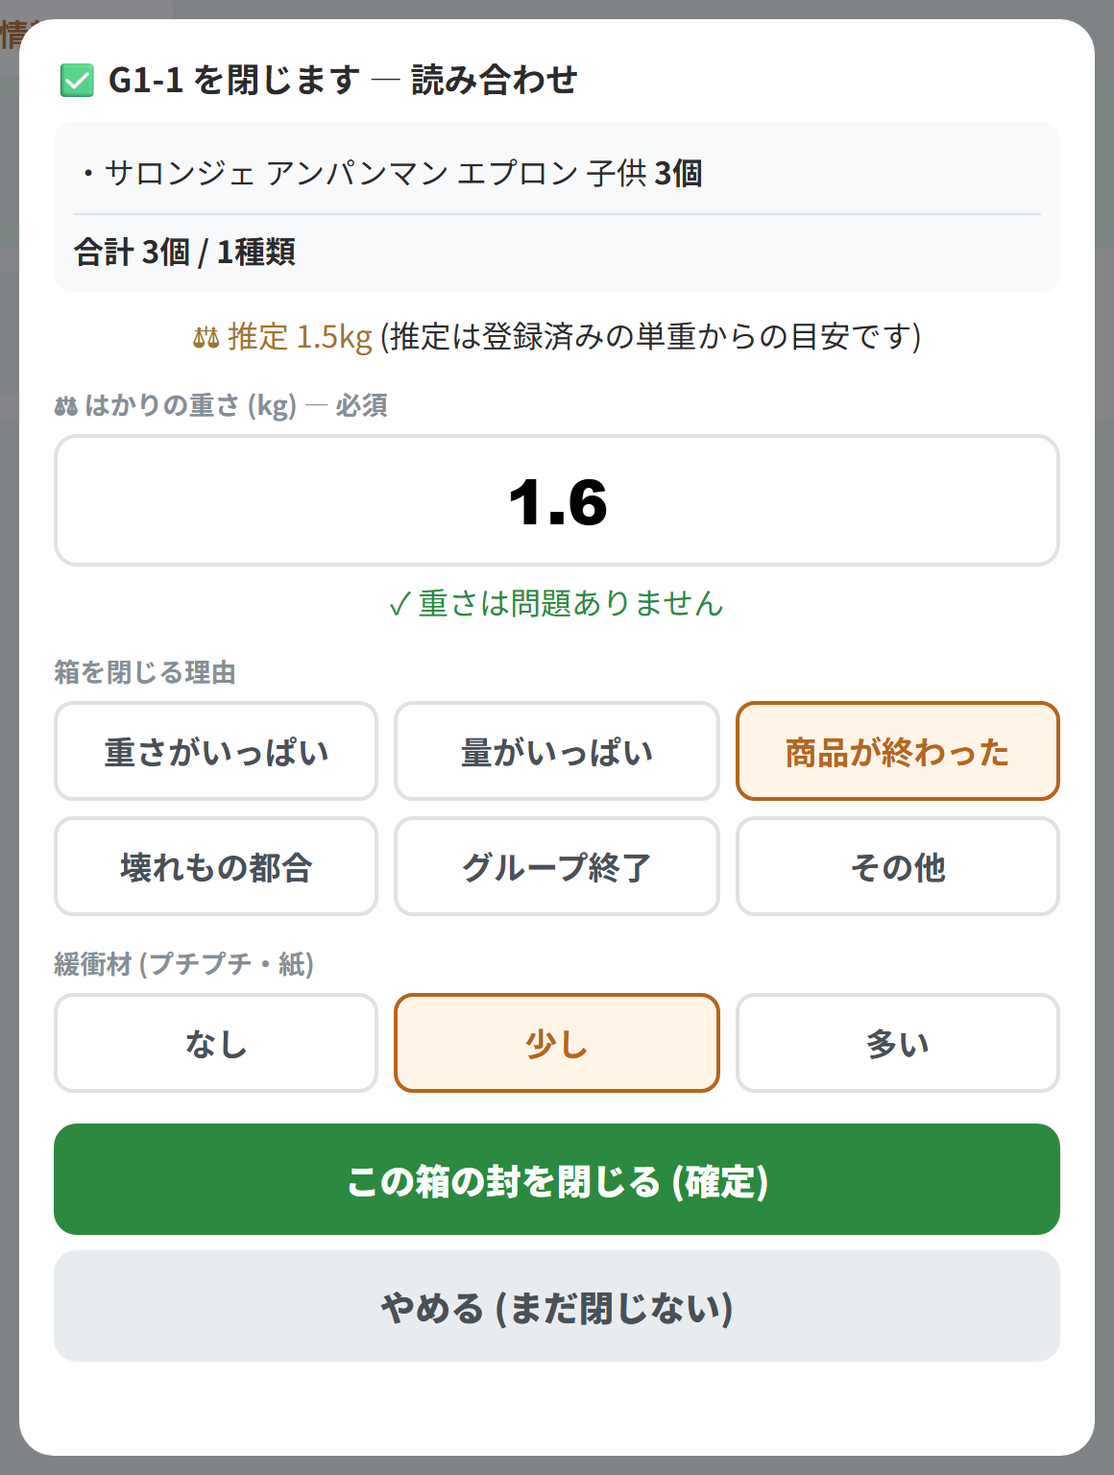
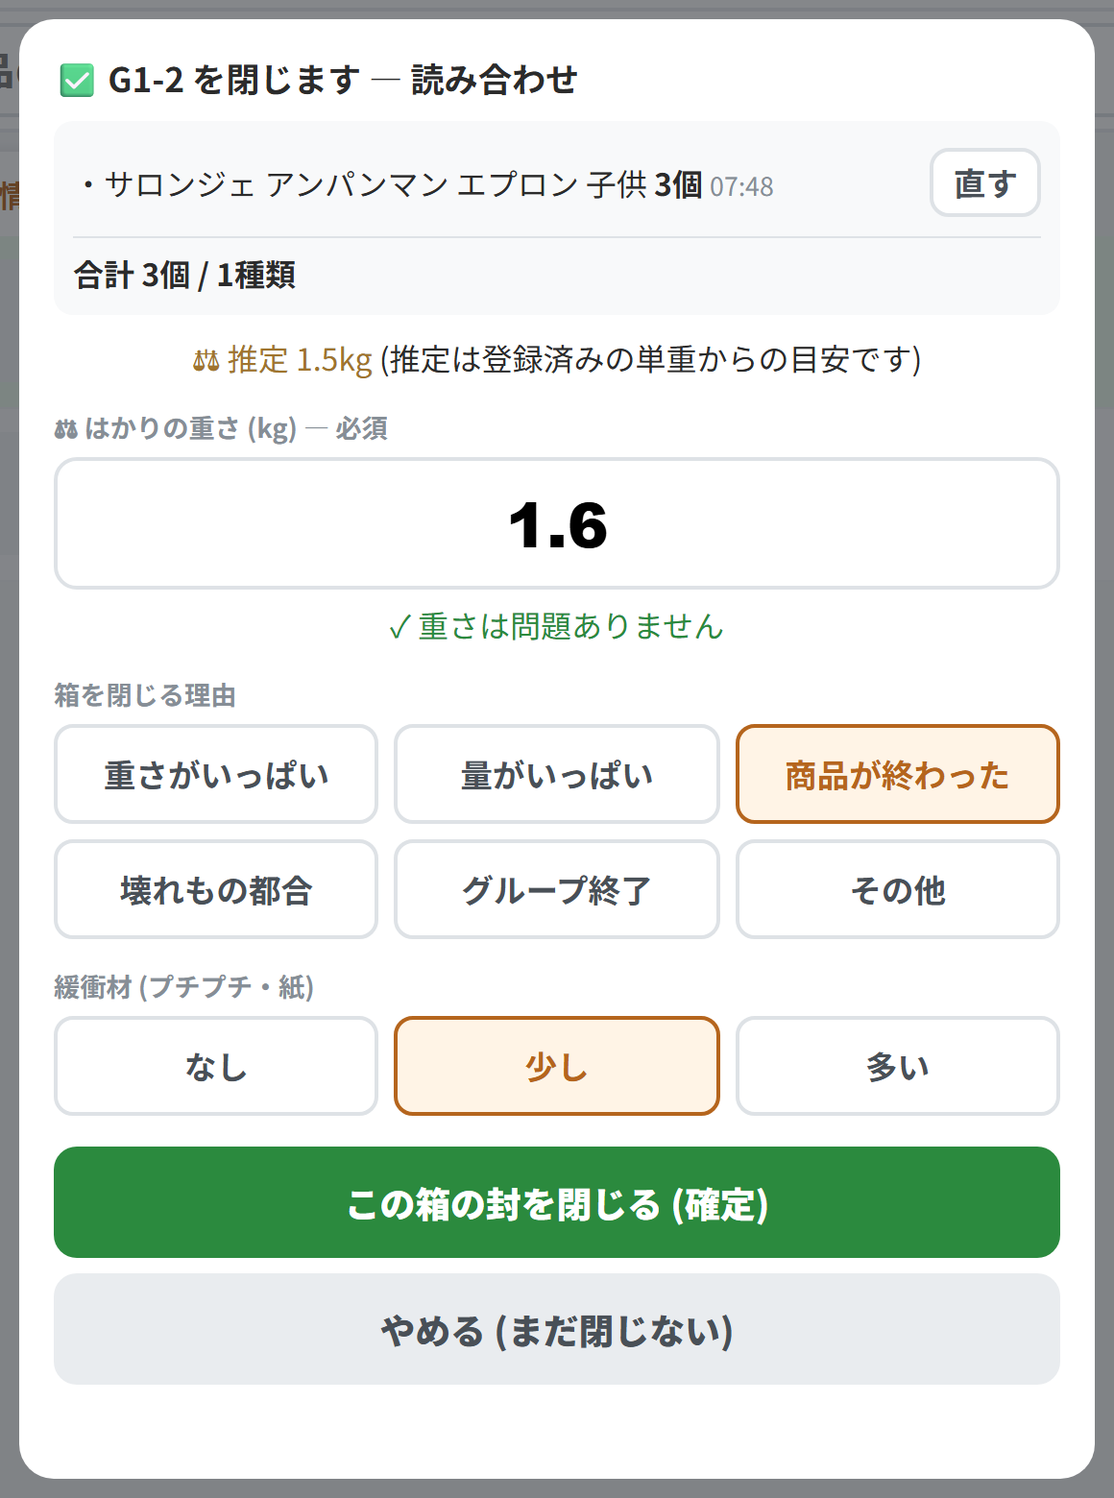
FBA箱詰め: つかいかたを 9/24 のアップデートに合わせる + 「アップデート内容」と回の一覧のお知らせ
中原さん 2026-09-24「マニュアルも更新して。更新したところだけ分かるように、アップデート内容みたいな感じで」
- つかいかたの冒頭に「🆕 9/24 のアップデート」(8 項目・各項目から本文へ飛べる)。本文の変わったところに 🆕 9/24 の印
- 本文を今の画面に: 番号で探す・商品→箱・別の箱にも入れる・下に固定の「入れた」・箱の中身/読み合わせから数を直す・
  通信が切れたときの新しい知らせ 3 つ・送る数を直しても入れかけの数が残る
- 画像を撮り直し (m01〜m10) + 追加 (m11 番号で探す / m12 別の箱にも入れる / m13 数を直す)
- 回の一覧に「🆕 9/24 アップデート … → 何が変わったか見る」。✕ で端末ごとに消せる (版を変えればまた出る)
- 数を直す画面に「やめる (直さない)」(背景タップしか出口が無かった)

diff --git a/apps/fba-box/views/manual.html b/apps/fba-box/views/manual.html
@@ -56,6 +56,15 @@
   th,td{border:1px solid var(--line);padding:8px 10px;text-align:left;vertical-align:top}
   th{background:var(--well);width:34%}
   footer{color:var(--faint);font-size:.85rem;text-align:center;margin-top:20px}
+  /* 🆕 アップデート内容 (変わったところだけ先に読めるように。本文の変わった所にも同じ印) */
+  .tag.new{background:#E8890C;color:#fff;margin-right:4px}
+  section.updates{border:2px solid #E8890C;background:#FFFBF5}
+  section.updates h2 .no{background:#E8890C}
+  .upd{display:grid;grid-template-columns:1fr;gap:10px;margin:10px 0 0;padding:0;list-style:none}
+  .upd li{background:var(--surface);border:1px solid var(--line);border-radius:12px;padding:10px 14px}
+  .upd li b.t{display:block;font-size:1.05rem;margin-bottom:2px}
+  .upd li a{color:var(--accent);font-weight:700;text-decoration:none;white-space:nowrap}
+  .upd .who{display:inline-block;font-size:.8rem;font-weight:700;border-radius:6px;padding:0 6px;margin-left:6px;background:var(--well);color:var(--sub)}
 </style>
 </head>
 <body>
@@ -67,6 +76,7 @@
 <main>
   <nav class="toc">
     <h2>もくじ</h2>
+    <p style="margin:0 0 6px"><a href="#updates">🆕 9/24 のアップデート (変わったところだけ見る)</a></p>
     <ol>
       <li><a href="#s1">回と名前をえらぶ</a></li>
       <li><a href="#s2">箱をつくる</a></li>
@@ -80,6 +90,31 @@
       <li><a href="#s10">職員: まとめ・箱札・作業を終える</a></li>
     </ol>
   </nav>
+
+  <section class="updates" id="updates">
+    <h2><span class="no">🆕</span>9/24 のアップデート</h2>
+    <p class="why">いろはのみなさんの声から直しました。変わったところだけ、ここにまとめています (本文の <span class="tag new">🆕 9/24</span> の印も同じところです)。</p>
+    <ul class="upd">
+      <li><b class="t">🔍 商品の番号で探せます</b>
+        作業画面の上の <b>🔍 番号</b> に、利用者さんが言った番号 (例: 通常_22 なら <b>22</b>) を入れると、その商品だけが出ます。
+        キーボードの <kbd>開く</kbd> で、そのまま商品の画面が開きます。もうスクロールして探さなくて大丈夫です。 <a href="#s3">→ 3 を見る</a></li>
+      <li><b class="t">📦 商品 → 箱 の順で入れられます</b>
+        先に箱を選ばなくても、<b>商品の画面で入れる箱を選べます</b>。「いまの箱」があれば、その箱に残り全部が入った状態で開きます。 <a href="#s3">→ 3 を見る</a></li>
+      <li><b class="t">✂ 1 つの商品を何箱にも分けて入れられます</b>
+        「1 箱目に 6 個・2 箱目に 4 個」のときは、<kbd>＋ 別の箱にも入れる</kbd> で箱を足して、<b>1 回で記録</b>できます。 <a href="#s3">→ 3 を見る</a></li>
+      <li><b class="t">⬇ 「入れた」ボタンは画面のいちばん下にいつも出ています</b>
+        商品の画面をスクロールしなくても押せます。 <a href="#s3">→ 3 を見る</a></li>
+      <li><b class="t">✏ 箱の中身から数を直せます</b>
+        箱のボタン (例: G1-1) → 中身の行の <kbd>数を直す</kbd>。箱を閉じる前の<b>読み合わせ</b>の画面からも <kbd>直す</kbd> で直せます。
+        数を直す画面には、<b>どの箱の記録か・記録した時刻・入れた人</b> が出ます。 <a href="#s4">→ 4 を見る</a></li>
+      <li><b class="t">📶 通信が切れたときの知らせを増やしました</b>
+        前の記録が入らなかったときは「<b>いま押した分は、まだ記録していません</b>」と出ます。入力はそのまま残るので、箱を確かめてから押し直してください。 <a href="#s8">→ 8 を見る</a></li>
+      <li><b class="t">🕘 記録の時刻が正しく出るようになりました</b>
+        これまで 9 時間ずれて出ていました (10:15 に入れたのに 01:15 など)。</li>
+      <li><b class="t">🔑 送る数を直しても、入れかけの数が消えません</b><span class="who">職員</span>
+        <kbd>送る数を直す</kbd> から商品の画面に戻っても、箱ごとに入れかけていた数はそのままです。 <a href="#s10">→ 10 を見る</a></li>
+    </ul>
+  </section>
 
   <div class="callout">
     この画面は <b>「どの商品を、どの箱に、何個入れたか」を記録する</b> ためのものです。<br>
@@ -132,22 +167,26 @@
     <h2><span class="no">3</span>商品を箱に入れる</h2>
     <p class="why">なぜ: 実際に入れた数と記録がずれると、Amazon で数が合わずに調査になります。</p>
     <ol class="steps">
-      <li>上の <b>🔍 番号</b> に <b>商品の番号</b> (例: 通常_22 なら <b>22</b>) を入れると、その商品だけが出ます。
+      <li><span class="tag new">🆕 9/24</span>上の <b>🔍 番号</b> に <b>商品の番号</b> (例: 通常_22 なら <b>22</b>) を入れると、その商品だけが出ます。
         キーボードの <kbd>開く</kbd> (Enter) で、そのまま商品の画面が開きます。一覧から <b>商品の行</b> をタップしても開けます。</li>
       <li>商品名と <b>FNSKU の下4桁</b> を見て、手に持っているものと同じか確かめます (🔊 で読み上げできます)。</li>
-      <li><b>📦 どの箱に何個</b>: 「いまの箱」があるときは、<b>その箱に残り全部が入った 1 行だけ</b> が出ます。そのままで良ければ次へ。
+      <li><span class="tag new">🆕 9/24</span><b>📦 どの箱に何個</b>: 「いまの箱」があるときは、<b>その箱に残り全部が入った 1 行だけ</b> が出ます。そのままで良ければ次へ。
         <kbd>−</kbd> <kbd>＋</kbd> や数字で直せます。
         「いまの箱」が無いときは箱のボタンが並ぶので、<b>入れた箱を押してください</b> (残り全部がその箱に入ります)。</li>
-      <li>入れたら <kbd>… 入れた</kbd> をタップ (例: <kbd>通常-1 に 10個 入れた</kbd>)。このボタンは <b>画面のいちばん下にいつも出ています</b> (スクロールしなくても押せます)。</li>
+      <li><span class="tag new">🆕 9/24</span>入れたら <kbd>… 入れた</kbd> をタップ (例: <kbd>通常-1 に 10個 入れた</kbd>)。このボタンは <b>画面のいちばん下にいつも出ています</b> (スクロールしなくても押せます)。</li>
     </ol>
+    <figure><img src="/app-images/fba-box/manual/m11-find.png" alt="番号で探した画面"><figcaption><span class="tag new">🆕 9/24</span>「2」と入れると 2 番の商品だけが出ます。キーボードの「開く」でそのまま開きます</figcaption></figure>
     <div class="callout">
-      <b>1 つの商品を 2 つ以上の箱に分けるとき</b> (例: 1箱目に 6個・2箱目に 4個): 1 箱目の数を 6 に直してから
+      <span class="tag new">🆕 9/24</span><b>1 つの商品を 2 つ以上の箱に分けるとき</b> (例: 1箱目に 6個・2箱目に 4個): 1 箱目の数を 6 に直してから
       <kbd>＋ 別の箱にも入れる</kbd> → 2 箱目のボタンを押すと、残りの 4 個がその箱に入ります。
       <kbd>2箱に 合計 10個 入れた</kbd> を 1 回押すだけです。箱が足りなければ、同じところの <kbd>＋ 新しい箱をつくる</kbd> — つくった箱に残りが入った状態で戻ります。
       <br>箱の名前を押すと、まだ割り振っていない残りがその箱に入ります。
       <br>合計が残りを超えると赤く出て、押せません。
     </div>
-    <figure><img src="/app-images/fba-box/manual/m05-row.png" alt="商品の画面"><figcaption>「残り」が 0 になれば その商品は終わりです</figcaption></figure>
+    <div class="two">
+      <figure><img src="/app-images/fba-box/manual/m05-row.png" alt="商品の画面"><figcaption>「いまの箱」に残り全部が入った状態で開きます。いちばん下の <b>… 入れた</b> を押すだけ。「残り」が 0 になれば その商品は終わりです</figcaption></figure>
+      <figure><img src="/app-images/fba-box/manual/m12-otherbox.png" alt="別の箱にも入れる"><figcaption><span class="tag new">🆕 9/24</span><b>＋ 別の箱にも入れる</b> を押すと、ほかの箱のボタンが出ます。押した箱に残りが入ります</figcaption></figure>
+    </div>
     <ul class="notes">
       <li><b>置いた場所</b> (下・中・上) は、分かるときだけで大丈夫です。箱を 2 つ以上に分けたときは記録しません。</li>
       <li>番号の欄は、入れ終わると空に戻ります (次の番号をそのまま打てます)。番号がこのタブに無いときは、ある方のタブへ切り替えるボタンが出ます。</li>
@@ -165,10 +204,11 @@
     <p class="why">なぜ: 直せることを知らないと、その場で黙って進んでしまい、あとから分からなくなります。</p>
     <table>
       <tr><th>すぐ気づいた</th><td>下に出ている <kbd>元に戻す</kbd> を押す</td></tr>
-      <tr><th>数をまちがえた</th><td><b>箱から直す</b>: 上の箱のボタン (例: <kbd>通常-1</kbd>) → 中身の行の <kbd>数を直す</kbd><br><b>商品から直す</b>: その商品の行をタップ → <b>📝 この商品の記録</b> の <kbd>数を直す</kbd><br>箱を閉じる前の<b>読み合わせ</b>で気づいたら、その行の <kbd>直す</kbd> (直したら読み合わせからやり直し)</td></tr>
+      <tr><th>数をまちがえた</th><td><span class="tag new">🆕 9/24</span><b>箱から直す</b>: 上の箱のボタン (例: <kbd>通常-1</kbd>) → 中身の行の <kbd>数を直す</kbd><br><b>商品から直す</b>: その商品の行をタップ → <b>📝 この商品の記録</b> の <kbd>数を直す</kbd><br>箱を閉じる前の<b>読み合わせ</b>で気づいたら、その行の <kbd>直す</kbd> (直したら読み合わせからやり直し)</td></tr>
       <tr><th>ちがう箱に入れた</th><td>同じところの <kbd>取消</kbd> → 正しい箱をえらんで入れ直す</td></tr>
       <tr><th>閉じた箱を直したい</th><td>直すと箱が開きます。<b>重さを量り直して</b>もう一度閉じてください</td></tr>
     </table>
+    <figure><img src="/app-images/fba-box/manual/m13-adjust.png" alt="数を直す画面"><figcaption><span class="tag new">🆕 9/24</span>どの箱の記録か・記録した時刻・入れた人が出ます。<b>正しい個数</b> を入れて <b>この数に直す</b>。やめるときは <b>やめる (直さない)</b>。空欄のままでは直りません (取り消すときは 0)</figcaption></figure>
     <div class="callout">直すのに職員の PIN は要りません。<b>まちがいはその場で直すのが一番安いです。</b></div>
   </section>
 
@@ -178,6 +218,7 @@
     <ol class="steps">
       <li>上の <b>箱のボタン</b> (例: G1-1) をタップします。</li>
       <li>中身が出ます。見ただけのときは <kbd>閉じる (見ただけ)</kbd> でもどります。</li>
+      <li><span class="tag new">🆕 9/24</span>数がちがっていたら、その行の <kbd>数を直す</kbd>。まちがえて入れた記録は <kbd>取消</kbd> (これまでの「↩」です)。</li>
     </ol>
     <figure><img src="/app-images/fba-box/manual/m07-boxdlg.png" alt="箱の中身の画面"><figcaption>「閉じる (見ただけ)」は画面を閉じるだけ。箱の開け閉めは変わりません</figcaption></figure>
     <div class="callout warn">
@@ -198,6 +239,7 @@
     </ol>
     <figure><img src="/app-images/fba-box/manual/m08-close.png" alt="読み合わせの画面"><figcaption>まだ閉じたくないときは「やめる (まだ閉じない)」でもどれます</figcaption></figure>
     <ul class="notes">
+      <li><span class="tag new">🆕 9/24</span>読み合わせで <b>数のちがい</b> に気づいたら、その行の <kbd>直す</kbd>。直すと箱の画面に戻るので、<b>読み合わせからやり直して</b>ください。</li>
       <li>読み合わせの途中で <b>他の iPad から中身が直された</b>ときは、「もう一度読み合わせてください」と出ます。やり直してください。</li>
     </ul>
   </section>
@@ -229,7 +271,12 @@
             <tr><th>⚠ 通信できません<br>(赤い帯)</th><td>こちらは<b>電波が届いていない</b>ときです。<b>もう <kbd>入れた</kbd> を押した分は、端末にたまっていて自動で送られます</b> (二重に入れないでください)。
 つながると「さっきの分は記録できています / できませんでした」と出るので、そこで確かめます。<br>
 <b>まだ押していない分</b>は紙にメモして、つながってから入れてください</td></tr>
-      <tr><th>送信中…</th><td>返事を待っています。この間はボタンが押せません。<b>そのまま待ってください</b></td></tr>
+      <tr><th>送信中…</th><td>返事を待っています。この間はボタンが押せません (画面も閉じられません)。<b>そのまま待ってください</b></td></tr>
+      <tr><th><span class="tag new">🆕 9/24</span>⚠ さっきの分は記録できませんでした<br>+ いま押した分は、まだ記録していません</th><td>前に押した分が入っていませんでした。<b>いま押した分も、まだ送っていません</b> (自動では送りません)。
+<kbd>わかりました</kbd> を押すと、入力したままの商品の画面に戻ります。<b>箱の中身を確かめてから</b>、もう一度 <kbd>入れた</kbd> を押してください (前の分も入れてあれば、職員を呼んでください)</td></tr>
+      <tr><th><span class="tag new">🆕 9/24</span>⚠ まだ記録していない分があります</th><td>上の画面の途中で iPad が閉じたときに出ます。<kbd>この商品の画面を開く</kbd> で、入力したままの画面が開きます。
+箱に入れていない・もう記録したなら <kbd>この控えを消す</kbd></td></tr>
+      <tr><th><span class="tag new">🆕 9/24</span>❓ 取り消せたか分かりません</th><td><kbd>元に戻す</kbd> の返事が届かなかったときです。通信が戻ってから <kbd>もう一度取り消す</kbd> (押し直しても二重には取り消しません)</td></tr>
       <tr><th>送れませんでした<br>まだ閉じていません</th><td>箱は開いたままです。<b>もう一度</b> 確定を押してください</td></tr>
       <tr><th>❓ 送れたかどうか<br>分かりません</th><td>通信が戻ってから <b>もう一度</b> 確定を押してください。すでに閉じていれば「既に閉じられています」と出ます</td></tr>
     </table>
@@ -265,13 +312,14 @@
     <figure><img src="/app-images/fba-box/manual/m10-summary.png" alt="まとめの画面"><figcaption>赤い行が残っていること。緑になれば本社が Excel を出せます</figcaption></figure>
     <ul class="notes">
       <li>中身の入った箱が開いたままだと終われません。先に閉じてください。</li>
+      <li><span class="tag new">🆕 9/24</span>商品の画面の <kbd>送る数を直す</kbd> から戻っても、箱ごとに入れかけていた数は消えません。送る数を減らして残りを超えたときは赤く出ます (送る数を 0 にしたときは「記録できません」と出て、数はそのまま残ります)。</li>
       <li>作業を終えると、<b>本社の Google チャットに「終わりました」の知らせと一覧のリンクが届きます</b>。本社はそれを見て送り状と箱ラベルを用意します。</li>
       <li>知らせが届いたかは、回の一覧の <kbd>完了 ・ 結果を見る ›</kbd> の「細かい情報」にある <kbd>📨 本社の Google チャットへの知らせ</kbd> の横に出ます (届いていれば <b>✅ 送りました</b>。送れていないときは、はじめから開いて出ます)。本社に「届いていない」と言われたら、その見出しを押して開き <kbd>🔁 もう一度送る</kbd> → <kbd>送る</kbd>。頭に【再送】と付いて届きます (PIN は要りません)。</li>
       <li>入っていない商品があっても、破損や自社出荷などで納品しないなら <b>それでも完了</b> できます。残りは「今回は納品しない」として本社の画面に出ます。</li>
     </ul>
   </section>
 
-  <footer>B-Faith 社内ポータル / FBA箱詰め記録 — 画面が変わったらこのページも直します</footer>
+  <footer>B-Faith 社内ポータル / FBA箱詰め記録 — 画面が変わったらこのページも直します (最終更新 2026-09-24)</footer>
 </main>
 </body>
 </html>

diff --git a/apps/fba-box/views/index.html b/apps/fba-box/views/index.html
@@ -240,6 +240,11 @@
         <a class="chip" style="background:#E9ECEF; color:#495057; text-decoration:none" href="./manual" target="_blank">📖 つかいかた</a>
         <button class="chip" style="background:#E9ECEF; color:#495057" id="btn-roster">👥 名簿</button>
       </div>
+      <!-- 🆕 アップデートのお知らせ。版を上げたら UPDATE_ID も変える (✕ で消した端末にも、新しい版はまた出る) -->
+      <div id="updbar" class="hidden" style="display:flex; align-items:center; gap:10px; background:#FFF4E6; border:2px solid #E8890C; border-radius:12px; padding:10px 12px; margin-bottom:12px">
+        <a href="./manual#updates" target="_blank" style="flex:1; color:#8A4B00; font-weight:800; text-decoration:none; line-height:1.5">🆕 9/24 アップデート: 番号で探す・1 つの商品を何箱にも分けて入れる・箱の中身から数を直す <span style="text-decoration:underline">→ 何が変わったか見る</span></a>
+        <button id="updbar-x" class="chip" style="background:#E9ECEF; color:#495057; flex:none" aria-label="お知らせを閉じる">✕</button>
+      </div>
       <div id="runlist">読み込み中…</div>
     </div>
     <div class="card" style="text-align:center; color:#868E96; font-size:0.9em">
@@ -2359,7 +2364,15 @@ ${j.message || ''}
       <div class="lbl">正しい個数 (0 = この記録を取り消す)</div>
       <input class="qtyin" id="a-qty" type="tel" inputmode="numeric" value="${currentQty}">
       <div style="margin-top:14px"><button class="bigbtn" id="a-go">この数に直す</button></div>
+      <div style="margin-top:8px"><button class="bigbtn sub" id="a-cancel">やめる (直さない)</button></div>
       <div class="msg" id="a-msg"></div>`);
+    // 出口を画面に出す (背景タップしか無いと「どこも押せない」に見える)。直したあとの戻り先と同じ画面へ戻る
+    dlg.querySelector('#a-cancel').addEventListener('click', async () => {
+      if (busy) return;
+      closeDialog();
+      if (opts && opts.after) { await opts.after(); return; }
+      await refresh(true); if (!dialogOpen) openRowDialog(row.id);
+    });
     // 操作ID は「同じ数を押し直すあいだ」使い続ける。返事が落ちて押し直したとき、サーバーは同じ修正として
     // 前の結果を返す (二重に直さない)。数を変えたら新しい ID (Codex PR #1421 R1 #7: 以前は押すたびに新しい ID だった)
     let requestId = null, sentQty = null, busy = false;
@@ -2378,11 +2391,12 @@ ${j.message || ''}
       const goBtn = ev.currentTarget;
       // 送信中は背景タップでも閉じない。閉じて別の画面を開くと、遅れて来た返事がその画面を閉じてしまう (Codex PR #1430 R1 #3)
       busy = true; goBtn.disabled = true; dialogLocked = true;
+      const cancelBtn = dlg.querySelector('#a-cancel'); if (cancelBtn) cancelBtn.disabled = true;
       msg.className = 'msg'; msg.textContent = '送信中…';
       let j;
       try { j = await apiPost(`/api/placements/${placementId}/adjust`, { worker_id: worker.id, qty, request_id: requestId }); }
       catch { j = { ok: false, error: 'no_body' }; }
-      busy = false; goBtn.disabled = false;
+      busy = false; goBtn.disabled = false; if (cancelBtn) cancelBtn.disabled = false;
       const mine = $('#ovl-root .dlg') === dlg;
       if (mine) dialogLocked = false;
       if (!j.ok && (j.error === 'no_body' || j._status >= 500)) {
@@ -2489,6 +2503,15 @@ ${j.message || ''}
       });
     });
   }
+
+  // ─── アップデートのお知らせ (端末ごとに ✕ で閉じられる。版が変われば また出る) ───
+  const UPDATE_ID = '2026-09-24';
+  (function initUpdateBar() {
+    const bar = $('#updbar');
+    if (!bar) return;
+    if (LS.get('upd_seen', null) !== UPDATE_ID) bar.classList.remove('hidden');
+    $('#updbar-x').addEventListener('click', () => { LS.set('upd_seen', UPDATE_ID); bar.classList.add('hidden'); });
+  })();
 
   // ─── 初期化 ───
   $('#btn-back').addEventListener('click', backToRuns);
